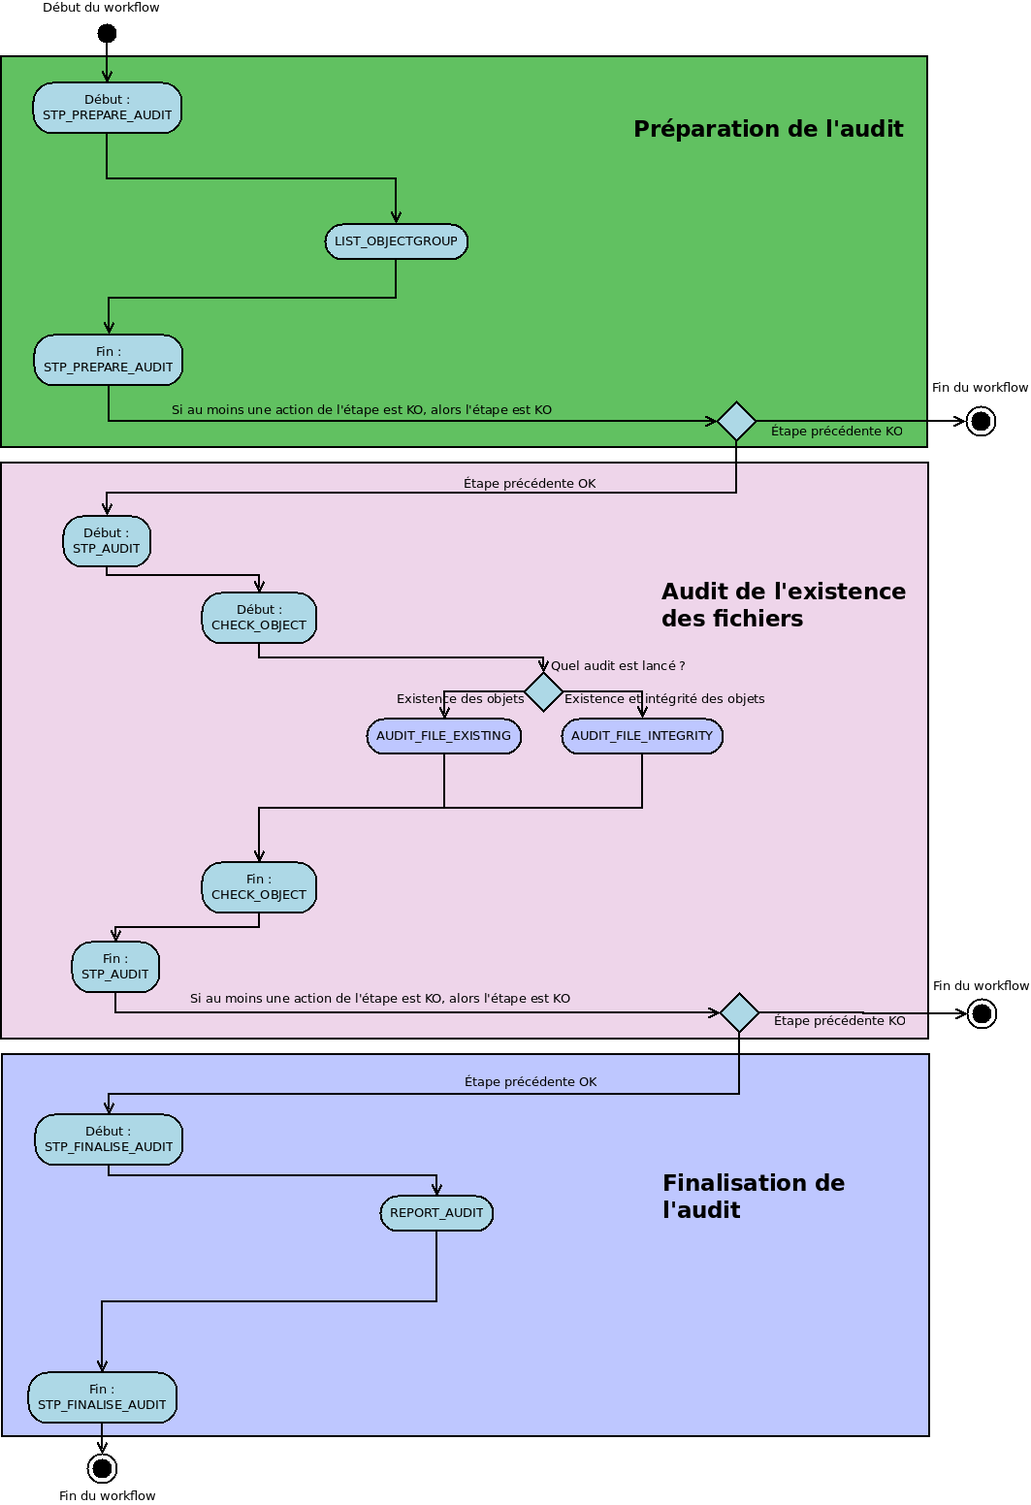
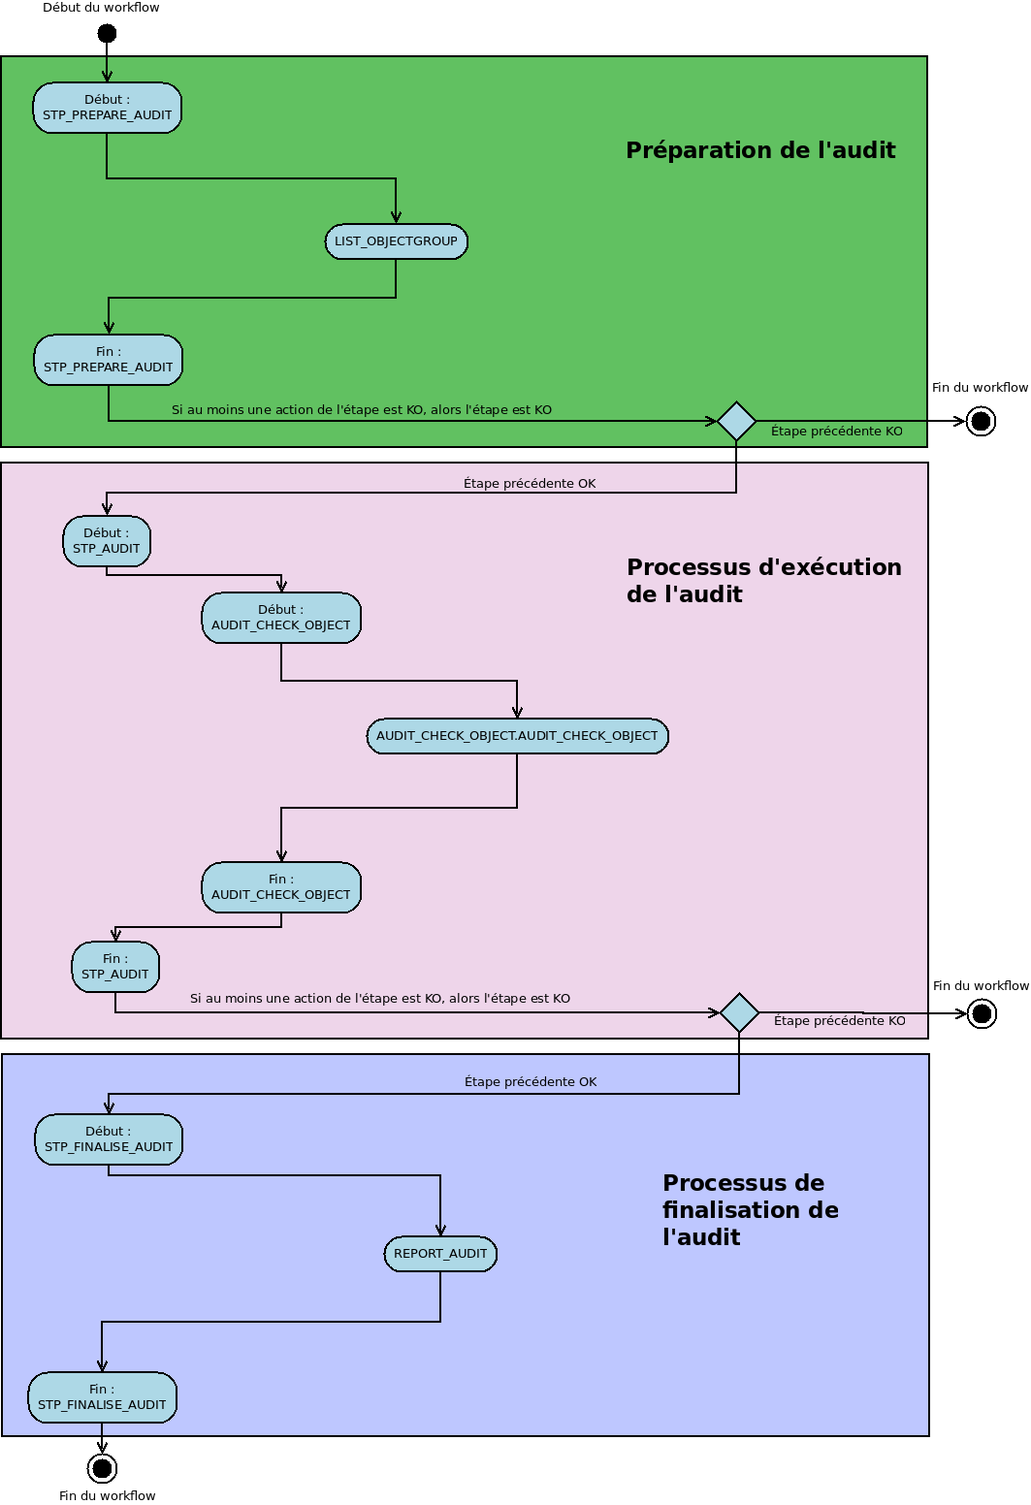
correction modèle de workflow partie 2-3

diff --git a/doc/fr/workflow-model/audit/workflow_audit_file_existing_integrity.rst b/doc/fr/workflow-model/audit/workflow_audit_file_existing_integrity.rst
@@ -4,9 +4,9 @@ Workflow de l'audit de l'existence et de l'intégrité des fichiers
 Introduction
 ============
 
-Cette section décrit le processus (workflow) d'audit de l'existence des fichiers mis en place dans la solution logicielle Vitam.
+Cette section décrit le processus (workflow) d'audit de l'existence et de l'intégrité des fichiers mis en place dans la solution logicielle Vitam.
 
-Celui-ci est défini dans le fichier "DefaultAuditWorkflow.json” (situé ici : sources/processing/processing-management/src/main/resources/workflows).
+Celui-ci est défini dans le fichier *"DefaultAuditWorkflow.json”* (situé ici : sources/processing/processing-management/src/main/resources/workflows).
 
 Processus d'audit d'existence des fichiers (vision métier)
 ==========================================================
@@ -19,11 +19,11 @@ Pour chaque objet du tenant choisi ou chaque objet appartenant au service produc
 	- Que tous les fichiers correspondant aux objets existent sur les offres déclarées, dans un nombre de copie spécifié via la stratégie de stockage
 
 Processus d'audit d'intégrité des fichiers (vision métier)
-=======================================================================
+==========================================================
 
 Si l'audit d'intégrité des objets est lancé, le processus va également vérifier que les empreintes des objets stockés en base de données sont bien les mêmes que les empreintes fournies par les espaces de stockage, alors recalculées à la demande de l'audit.
 
-Dans une première étape technique, il prépare la liste des groupes d'objets à auditer afin de paralléliser la tâche.
+Dans une première étape technique, le processus prépare la liste des groupes d'objets à auditer afin de paralléliser la tâche.
 Dans un second temps, il effectue la vérification elle même.
 Enfin, il sécurise les journaux de cycle de vie qui ont été modifiés.
 
@@ -38,49 +38,35 @@ Création de la liste des groupes d'objets LIST_OBJECTGROUP_ID (PrepareAuditActi
 * **Type** : bloquant
 * **Statuts** :
 	- OK : la liste a été créée avec succès (LIST_OBJECTGROUP_ID.OK=Succès de la création de la liste des groupes d'objets à auditer)
-	- FATAL : Une erreur fatale est survenue lors de la création de la liste (LIST_OBJECTGROUP_ID.FATAL=Erreur fatale lors de la création de la liste des groupes d'objets à auditer)
+	- FATAL : Une erreur technique est survenue lors de la création de la liste (LIST_OBJECTGROUP_ID.FATAL=Erreur technique lors de la création de la liste des groupes d'objets à auditer)
 
 Processus d'éxecution de l'audit (STP_AUDIT)
 ============================================
 
 Audit de la vérification des objets AUDIT_CHECK_OBJECT (AuditCheckObjectPlugin.java)
---------------------------------------------------------------------------------------
+------------------------------------------------------------------------------------
 
 * **Règle** : Tâche technique pour organiser et lancer l'action d'audit de la vérification des objets. A la fin de l'audit de chaque groupe d'objets en KO, la mise à jour en base de son journal du cycle de vie est faite.
 * **Type** : bloquant
 * **Statuts** :
 	- OK : l'action d'audit de la vérification des objets s'est terminée en OK (AUDIT_CHECK_OBJECT.OK=Succès de l'audit de la vérification des objets)
 	- KO : l'action d'audit de la vérification des objets s'est terminée en KO (AUDIT_CHECK_OBJECT.KO=Échec de l'audit de la vérification des objets : au moins un objet demandé n'existe pas ou des stratégies de stockage sont incohérentes avec les offres déclarées)
-	- FATAL : une erreur fatale est survenue lors du lancement de l'action d'audit (AUDIT_CHECK_OBJECT.FATAL=Erreur fatale lors de l'audit de la vérification des objets)
+	- FATAL : une erreur technique est survenue lors du lancement de l'action d'audit (AUDIT_CHECK_OBJECT.FATAL=Erreur technique lors de l'audit de la vérification des objets)
 
-Audit de l'existence des objets AUDIT_FILE_EXISTING (CheckExistenceObjectPlugin.java)
--------------------------------------------------------------------------------------
+Audit de l'existence et de l'intégrité des objets AUDIT_CHECK_OBJECT.AUDIT_CHECK_OBJECT
+-------------------------------------------------------------------------------------------
 
-* **Règle** : Audit de l'existence des objets permettant la vérification de chaque groupe d'objets audités
+* **Règle** : Audit de l'existence et de l'intégrité des objets permettant la vérification de chaque groupe d'objets audités
 	* La stratégie de stockage du groupe d'objets est conforme à celle du moteur de stockage
 	* Les fichiers correspondant aux objets, déclarés dans le groupe d'objets, existent bien sous le même nom dans les offres de stockage
 * **Type** : bloquant
 * **Statuts** :
-	- OK : tous les objets de tous les groupes d'objets audités existent bien sur les offres de stockage (AUDIT_CHECK_OBJECT.AUDIT_FILE_EXISTING.OK=Succès de l'audit de l'existence de fichiers )
-	- KO : au moins un objet n'existe pas pour au moins un groupe objets (AUDIT_CHECK_OBJECT.AUDIT_FILE_EXISTING.KO=Echec de l'audit de l'existence de fichiers)
-	- Warning : il n'y a aucun objet à auditer (cas par exemple d'un producteur sans objets) (AUDIT_CHECK_OBJECT.AUDIT_FILE_EXISTING.WARNING=Avertissement lors de l'audit de l'existence des objets : au moins un groupe d'objets n'a pas d'objet binaire à vérifier)
-	- FATAL : une erreur fatale est survenue lors de l'audit de l'existence des objets (AUDIT_CHECK_OBJECT.AUDIT_FILE_EXISTING.FATAL=Erreur fatale lors de l'audit de l'existence des objets)
+	- OK : tous les objets de tous les groupes d'objet audités existent bien sur les offres de stockage et leurs empreintes sont identiques entre celles enregistrées en base de données et celles recalculées par les offres de stockage (AUDIT_CHECK_OBJECT.AUDIT_CHECK_OBJECT.OK=Succès de l'audit de l'existence et de l'intégrité des objets)
+	- KO : au moins un objet n'est pas intègre pour les groupes objets vérifiés, audités (AUDIT_CHECK_OBJECT.AUDIT_CHECK_OBJECT.KO=Echec de l'audit de l'existence de fichiers)
+	- Warning : il n'y a aucun objet à auditer (cas par exemple d'un producteur sans objets) (AUDIT_CHECK_OBJECT.AUDIT_CHECK_OBJECT.WARNING=Avertissement lors de l'audit de l'existence des objets : au moins un élément n'a pas d'objet binaire à vérifier)
+	- FATAL : une erreur technique est survenue lors de l'audit de l'existence des objets (AUDIT_CHECK_OBJECT.AUDIT_FILE_EXISTING.FATAL=Erreur technique lors de l'audit de l'existence des objets)
 
-Audit de l'intégrité des objets AUDIT_CHECK_OBJECT.AUDIT_FILE_INTEGRITY (CheckIntegrityObjectPlugin.java)
------------------------------------------------------------------------------------------------------------
 
-* **Règle** : Audit de l'intégrité des objets permettant la vérification de chaque groupe d'objets audités
-	* L'objet existe bien (voir "AUDIT_FILE_EXISTING")
-	* L'empreinte de l'objet enregistrée en base de données est la même pour chaque objet que celle obtenue par l'offre de stockage, recalculée à la demande de l'audit
-* **Type** : bloquant
-* **Statuts** :
-	- OK : tous les objets de tous les groupes d'objet audités existent bien sur les offres de stockage et leurs empreintes sont identiques entre celles enregistrées en base de données et celles recalculées par les offres de stockage (AUDIT_CHECK_OBJECT.AUDIT_FILE_INTEGRITY.OK=Succès de l'audit de l'existence et de l'intégrité des objets)
-	- KO : au moins un objet n'existe pas pour au moins un objet (AUDIT_CHECK_OBJECT.AUDIT_FILE_INTEGRITY.KO=Échec de l'audit de l'existence et de l'intégrité des objets)
-	- Warning : il n'y a aucun objet à auditer (cas par exemple d'un producteur sans objets) (AUDIT_CHECK_OBJECT.AUDIT_FILE_INTEGRITY.WARNING=Avertissement lors de l'existence et de l'intégrité des objets)
-	- FATAL : une erreur fatale est survenue lors de l'audit de l'existence des fichiers (AUDIT_CHECK_OBJECT.AUDIT_FILE_INTEGRITY.FATAL=Erreur fatale lors de l'existence et de l'intégrité des objets)
-
-.. figure:: images/workflow_audit_file_existing.png
-	:align: center
 
 Processus de finalisation de l'audit (STP_FINALISE_AUDIT)
 =========================================================
@@ -92,4 +78,12 @@ Notification de la fin d'audit REPORT_AUDIT (GenerateAuditReportActionHandler.ja
 * **Type** : bloquant
 * **Statuts** :
 	- OK : le rapport a été créé avec succès (REPORT_AUDIT.OK=Succès de la notification de la fin de l'audit)
-	- FATAL : Une erreur fatale est survenue lors de la création du rapport d'audit (REPORT_AUDIT.OK.FATAL=Erreur fatale lors de la notification de la fin de l'audit)
+	- FATAL : Une erreur technique est survenue lors de la création du rapport d'audit (REPORT_AUDIT.OK.FATAL=Erreur technique lors de la notification de la fin de l'audit)
+
+
+
+Structure du workflow de l'audit de l'existence et de l'intégrité des fichiers
+===============================================================================
+
+.. figure:: images/workflow_audit_file_existing.png
+	:align: center

diff --git a/doc/fr/workflow-model/dip/workflow-dip.rst b/doc/fr/workflow-model/dip/workflow-dip.rst
@@ -6,6 +6,8 @@ Introduction
 
 Cette section décrit le processus (workflow) d'export, utilisé lors de l'export d'un Dissemination Information Package (DIP) dans la solution logicielle Vitam.
 
+Le workflow d'export de DIP actuel mis en place dans la solution logicielle Vitam est défini dans l’unique fichier *“ExportUnitWorkflow.json”*. Ce fichier est disponible dans /sources/processing/processing-management/src/main/resources/workflows.
+
 Toutes les étapes et actions sont journalisées dans le journal des opérations.
 Les étapes et actions associées ci-dessous décrivent le processus d'export de DIP (clé et description de la clé associée dans le journal des opérations) tel qu'implémenté dans la version actuelle de la solution logicielle Vitam.
 
@@ -15,57 +17,55 @@ Processus de création du bordereau de mise à disposition (STP_CREATE_MANIFEST)
 Création du Bordereau CREATE_MANIFEST (CreateManifest.java)
 -----------------------------------------------------------
 
-+ **Règle** : Création d'un bordereau contenant les unités archivistiques soumises au service d'export de DIP, ainsi que le groupes d'objets techniques et objets-données qui leurs sont associés
++ **Règle** : Création d'un bordereau contenant les unités archivistiques soumises au service d'export de DIP, ainsi que les groupes d'objets techniques et objets-données qui leurs sont associés
 
 + **Type** : bloquant
 
 + **Statuts** :
 
-  - OK : le bordereau contenant les descriptions des unités archivistiques, groupes d'objets techniques et objets-données a été créé avec succès (CREATE_MANIFEST.OK=Succès de la création du bordereau de mise à disposition)
+  - OK : le bordereau contenant les descriptions des unités archivistiques, groupes d'objets techniques et objets-données a été créé avec succès (CREATE_MANIFEST.OK = Succès de la création du bordereau de mise à disposition)
 
-  - KO : la création du bordereau contenant les descriptions des unités archivistiques, groupes d'objets techniques et objets-données a échouée car des informations étaient manquantes, érronées ou inconnues (CREATE_MANIFEST.KO=Échec de la création du bordereau de mise à disposition)
+  - KO : la création du bordereau contenant les descriptions des unités archivistiques, groupes d'objets techniques et objets-données a échouée car des informations étaient manquantes, érronées ou inconnues (CREATE_MANIFEST.KO = Échec de la création du bordereau de mise à disposition)
 
-  - FATAL : une erreur fatale est survenue lors de la création du bordereau (CREATE_MANIFEST.FATAL=Erreur fatale lors de la création du bordereau de mise à disposition)
+  - FATAL : une erreur technique est survenue lors de la création du bordereau (CREATE_MANIFEST.FATAL = Erreur technique lors de la création du bordereau de mise à disposition)
 
-Processus de déplacement des objets binaires vers le workspace (STP_PUT_BINARY_ON_WORKSPACE)
-============================================================================================
+Processus de déplacement des objets binaires vers l'espace de travail interne (STP_PUT_BINARY_ON_WORKSPACE)
+===========================================================================================================
 
-Déplacement des objets binaires vers le workspace PUT_BINARY_ON_WORKSPACE  (PutBinaryOnWorkspace.java)
+Déplacement des objets binaires vers le workspace PUT_BINARY_ON_WORKSPACE (PutBinaryOnWorkspace.java)
 ------------------------------------------------------------------------------------------------------
 
-+ **Règle** : Déplacement des objets-données mentionnées dans le bordereau vers le workspace
++ **Règle** : Déplacement des objets-données mentionnés dans le bordereau vers l'espace de travail interne ("workspace")
 
 + **Type** : bloquant
 
 + **Statuts** :
 
-  - OK : les objets-données ont été déplacés vers le workspace avec succès (PUT_BINARY_ON_WORKSPACE.OK=Succès du déplacement des objets binaires de l'offre de stockage vers le workspace)
+  - OK : les objets-données ont été déplacés vers le workspace avec succès (PUT_BINARY_ON_WORKSPACE.OK = Succès du déplacement des objets binaires de l'offre de stockage vers l'espace de travail interne 
 
-  - KO : le déplacement des objet-données vers le workspace a échoué car un ou plusieurs de ces objets étaient introuvables (PUT_BINARY_ON_WORKSPACE.KO=Échec du déplacement des objets binaires de l'offre de stockage vers le workspace)
+  - KO : le déplacement des objet-données vers le workspace a échoué car un ou plusieurs de ces objets étaient introuvables (PUT_BINARY_ON_WORKSPACE.KO = Échec du déplacement des objets binaires de l'offre de stockage vers l'espace de travail interne)
 
-  - FATAL : une erreur fatale est survenue lors du déplacement des objets binaires de stockage vers le workspace (PUT_BINARY_ON_WORKSPACE.FATAL=Erreur fatale lors du déplacement des objets binaires de l'offre de stockage vers le workspace)
+  - FATAL : une erreur technique est survenue lors du déplacement des objets binaires de stockage vers le workspace (PUT_BINARY_ON_WORKSPACE.FATAL = Erreur technique lors du déplacement des objets binaires de l'offre de stockage vers l'espace de travail interne)
 
 Processus de création du DIP et de son déplacement vers l'offre de stockage (STP_STORE_MANIFEST)
 ================================================================================================
 
-Stockage du bordereau compressé (STORE_MANIFEST - StoreDIP.java)
-----------------------------------------------------------------
+Stockage du bordereau compressé de celui-ci STORE_MANIFEST (StoreDIP.java)
+----------------------------------------------------------------------------
 
-+ **Règle** : Création du DIP et de son déplacement vers l'offre de stockage
++ **Règle** : Création du DIP et déplacement vers l'offre de stockage
 
 + **Type** : bloquant
 
 + **Statuts** :
 
-  - OK : le DIP a été créé et stocké sur les offres de stockages avec succès (STORE_MANIFEST.OK=Succès du processus de la création du DIP et de son déplacement vers l'offre de stockage)
-  - FATAL :  une erreur fatale est survenue lors de la création et de l'enregistrement du DIP sur les offres de stockage déplacement des objets binaires de stockage vers workspace (STORE_MANIFEST.FATAL=Erreur fatale lors de la création du DIP et de son déplacement vers l'offre de stockage)
+  - OK : le DIP a été créé et stocké sur les offres de stockages avec succès (STORE_MANIFEST.OK = Succès du processus de la création du DIP et de son déplacement vers l'offre de stockage)
+  - FATAL :  une erreur technique est survenue lors de la création et de l'enregistrement du DIP sur les offres de stockage déplacement des objets binaires de stockage vers l''espace de travail interne  (STORE_MANIFEST.FATAL = Erreur technique lors de la création du DIP et de son déplacement vers l'offre de stockage)
+
 
 Structure du Workflow d'export de DIP
 =====================================
 
-Le workflow d'export de DIP actuel mis en place dans la solution logicielle Vitam est défini dans l’unique fichier “ExportUnitWorkflow.json”. Ce fichier est disponible dans /sources/processing/processing-management/src/main/resources/workflows.
-
-D’une façon synthétique, le workflow est décrit de cette façon :
 
 .. image:: images/workflow_dip.png
         :align: center

diff --git a/doc/fr/workflow-model/audit/workflow_audit_file_consistency.rst b/doc/fr/workflow-model/audit/workflow_audit_file_consistency.rst
@@ -1,4 +1,4 @@
-Workflow de l'audit de cohérence des fichiers
+Workflow d'audit de cohérence des fichiers
 #############################################
 
 Introduction
@@ -6,17 +6,17 @@ Introduction
 
 Cette section décrit le processus (workflow) d'audit de cohérence des fichiers mis en place dans la solution logicielle Vitam.
 
-Celui-ci est défini dans le fichier "EvidenceAuditWorkflow.json” (situé ici : sources/processing/processing-management/src/main/resources/workflows).
+Celui-ci est défini dans le fichier *"EvidenceAuditWorkflow.json”* (situé ici : sources/processing/processing-management/src/main/resources/workflows).
 
 Processus d'audit de cohérence des fichiers (vision métier)
 ===========================================================
 
-Le processus d'audit de cohérence permet de vérifier la cohérence entre les signatures calculées pour chaque objet, en comparant celle présente dans le journal sécurisé, avec celle présente dans la base de donnée, et celle de l'offre de stockage.
+Le processus d'audit de cohérence permet de vérifier la cohérence entre les signatures calculées pour chaque élément audité, en comparant celle présente dans le journal sécurisé, avec celle présente dans la base de donnée, et celle d'offre de stockage.
 
-L'audit s'applique au niveau des unités archivistiques, des objets, et des groupes d'objets. 
+L'audit s'applique au niveau des unités archivistiques, des objets et des groupes d'objets. 
 
 
-Processus de préparation de l'audit (STP_EVIDENCE_AUDIT_PREPARE)
+Processus de préparation d'audit (STP_EVIDENCE_AUDIT_PREPARE)
 ================================================================
 
 Création de la liste à auditer EVIDENCE_AUDIT_LIST_OBJECT (EvidenceAuditPrepare.java)
@@ -96,20 +96,24 @@ Création du rapport pour chaque unité archivistique ou objet ou groupe d'objet
 	- WARNING : Avertissement lors de la création du rapport pour chaque unité archivistique ou objet ou groupe d'objets (EVIDENCE_AUDIT_PREPARE_GENERATE_REPORTS.WARNING=Avertissement lors de la création du rapport pour chaque unité archivistique ou objet ou groupe d'objets)
 
 
-Processus de finalisation de l'audit et généretion du rapport final (STP_EVIDENCE_AUDIT_FINALIZE)
+Processus de finalisation d'audit et généretion du rapport final (STP_EVIDENCE_AUDIT_FINALIZE)
 =================================================================================================
 
 
 
-Création du rapport de l'audit de cohérence EVIDENCE_AUDIT_FINALIZE (EvidenceAuditFinalize.java)
+Création du rapport d'audit de cohérence EVIDENCE_AUDIT_FINALIZE (EvidenceAuditFinalize.java)
 ------------------------------------------------------------------------------------------------
 
-* **Règle** : Tâche consistant à créer le rapport permettant de comparer les signatures extraites des fichiers sécurisés avec les données de la base de données et de l'offre de stockage. 
+* **Règle** : Tâche consistant à créer le rapport permettant de comparer les signatures extraites des fichiers sécurisés avec les données de la base de données et d'offre de stockage. 
 * **Type** : bloquant
 * **Statuts** :
-	- OK : La création du rapport d'audit de cohérence est un succès (EVIDENCE_AUDIT_FINALIZE.OK=Succès de la création du rapport de l'audit de cohérence)
-	- KO : La création du rapport d'audit de cohérence est un échec (EVIDENCE_AUDIT_FINALIZE.KO=Echec de la création du rapport de l'audit de cohérence)
+	- OK : La création du rapport d'audit de cohérence est un succès (EVIDENCE_AUDIT_FINALIZE.OK=Succès de la création du rapport d'audit de cohérence)
+	- KO : La création du rapport d'audit de cohérence est un échec (EVIDENCE_AUDIT_FINALIZE.KO=Echec de la création du rapport d'audit de cohérence)
 	- FATAL : une erreur fatale est survenue lors de la création du rapport d'audit de cohérence) (EVIDENCE_AUDIT_FINALIZE.FATAL=Erreur fatale lors de la création du rapport d'audit de cohérence)
+
+
+Structure du workflow d'audit de cohérence des fichiers
+==========================================================
 
 .. figure:: images/workflow_audit_file_consistency.png
 	:align: center

diff --git a/doc/fr/workflow-model/audit/rapportaudit.rst b/doc/fr/workflow-model/audit/rapportaudit.rst
@@ -90,21 +90,22 @@ Exemple de JSON : rapport d'audit KO
 Partie "Master"
 ===============
 
-La partie "master", c'est à dire le bloc à la racine du rapport (sans indentation) est composé des champs suivants :
+La partie "master", c'est à dire le bloc à la racine du rapport (sans indentation) est composée des champs suivants :
 
-- "tenant": le tenant sur lequel l'opération d'audit a été lancée
-- "auditOperationId": l'identifiant de l'opération d'audit
-- "auditType": l'élément sur lequel l'audit a été lancé. Celui ci peut être par "tenant", ou par "originatingagency"
-- "objectId": l'identifiant de l'élément (tenant ou service producteur)
-- "DateTime": la date du rapport
-- "Status": la statut final du rapport, OK (l'audit n'a pas détecté d'anomalie), Warning (l'audit a détecté quelque chose de singulier qui n'a pas été considéré comme une anomalie), KO (l'audit a détecté une anomalie)
-- "outMessage": le message final de l'audit, repris du journal des opérations
-- "LastEvent": la clé correspondant au type d'audit. Par exemple pour l'audit de l'existence des fichiers il s'agit de "AUDIT_FILE_EXISTING"
-
-Mais aussi :
-- "source": la liste des opérations auditées
-- "auditKO": la liste des anomalies détectées qui ont provoqué le KO de l'audit
-- "auditWarning": la liste des éléments singuliers détectés qui ont provoqué un warning de l'audit
+- "tenant": tenant sur lequel l'opération d'audit a été lancée
+- "auditOperationId": identifiant de l'opération d'audit généré par la solution logicielle Vitam.
+- "auditType": élément sur lequel l'audit a été lancé. Celui ci peut être par "tenant", ou par "originatingagency"
+- "objectId": identifiant de l'élément (tenant ou service producteur)
+- "DateTime": date du rapport
+- "Status": statut final du rapport : 
+    * OK (l'audit n'a pas détecté d'anomalie)
+    * Warning (l'audit a détecté quelque chose de singulier qui n'a pas été considéré comme une anomalie)
+    * KO (l'audit a détecté une anomalie)
+- "outMessage": message final de l'audit, repris du journal des opérations
+- "LastEvent": clé correspondant au type d'audit. Par exemple pour l'audit de l'existence et de l'intégrité des fichiers il s'agit de "AUDIT_CHECK_OBJECT.AUDIT_CHECK_OBJECT"
+- "source": liste des opérations auditées
+- "auditKO": liste des anomalies détectées qui ont provoqué le KO de l'audit
+- "auditWarning": liste des éléments singuliers détectés qui ont provoqué un warning de l'audit
 
 Liste des opérations auditées ("source")
 ========================================
